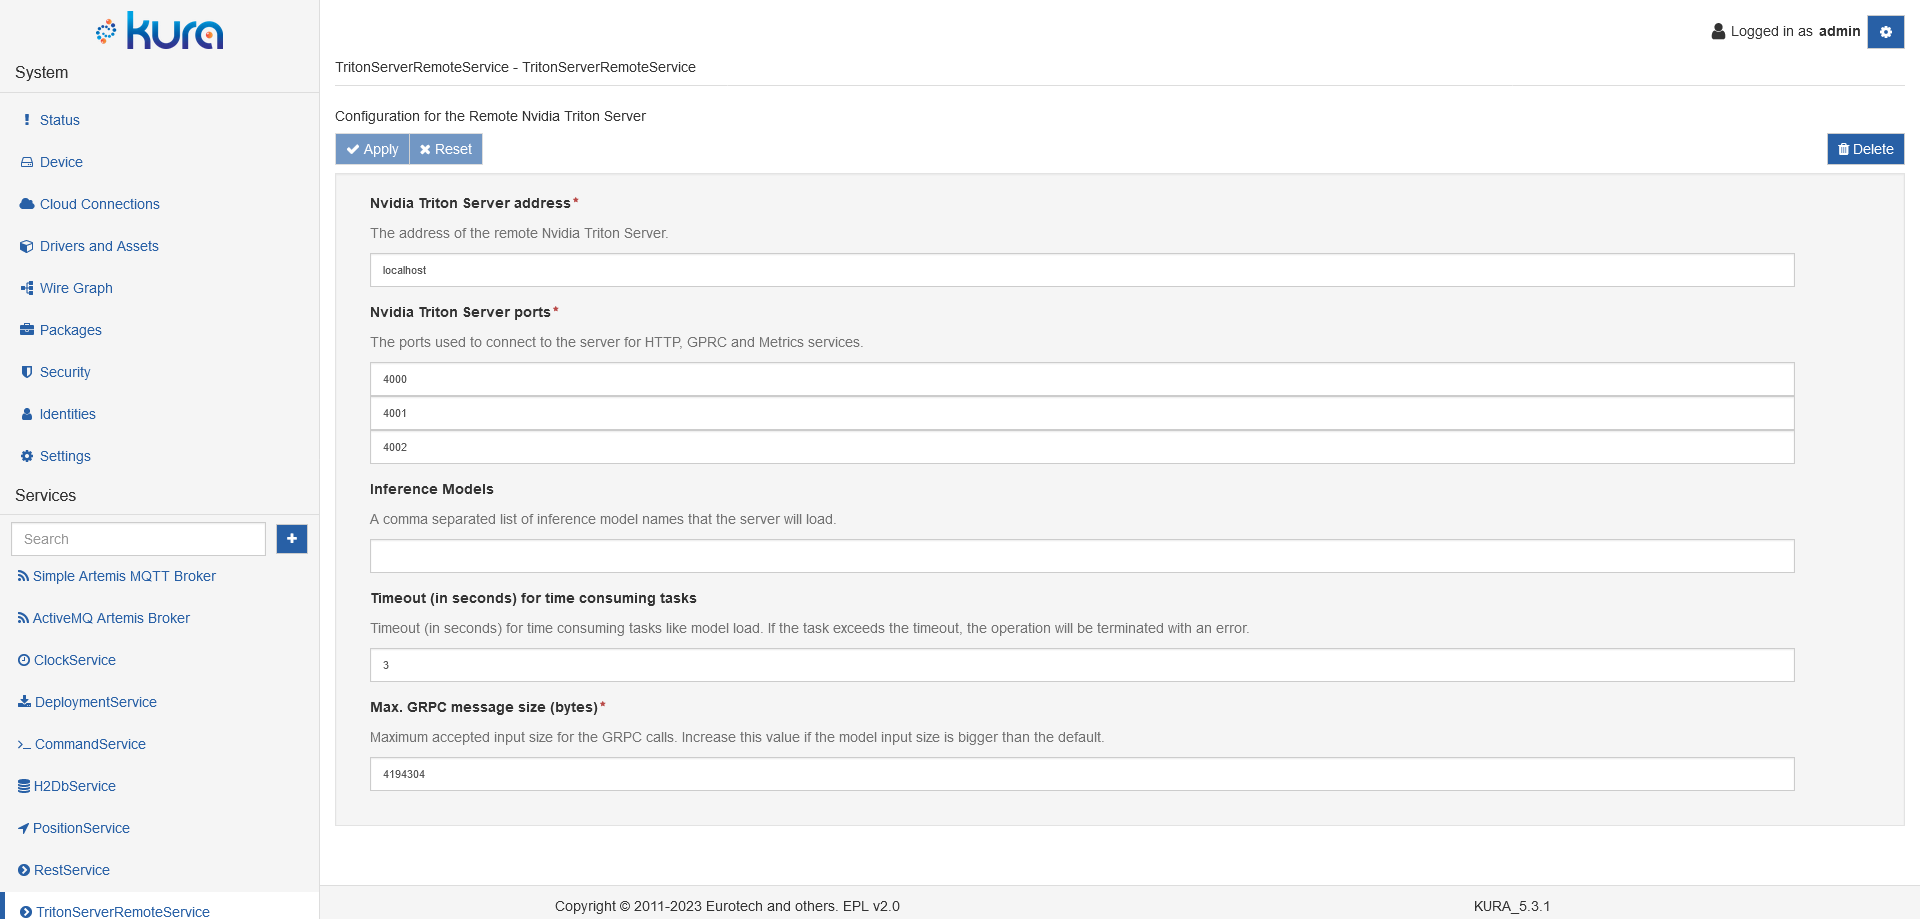
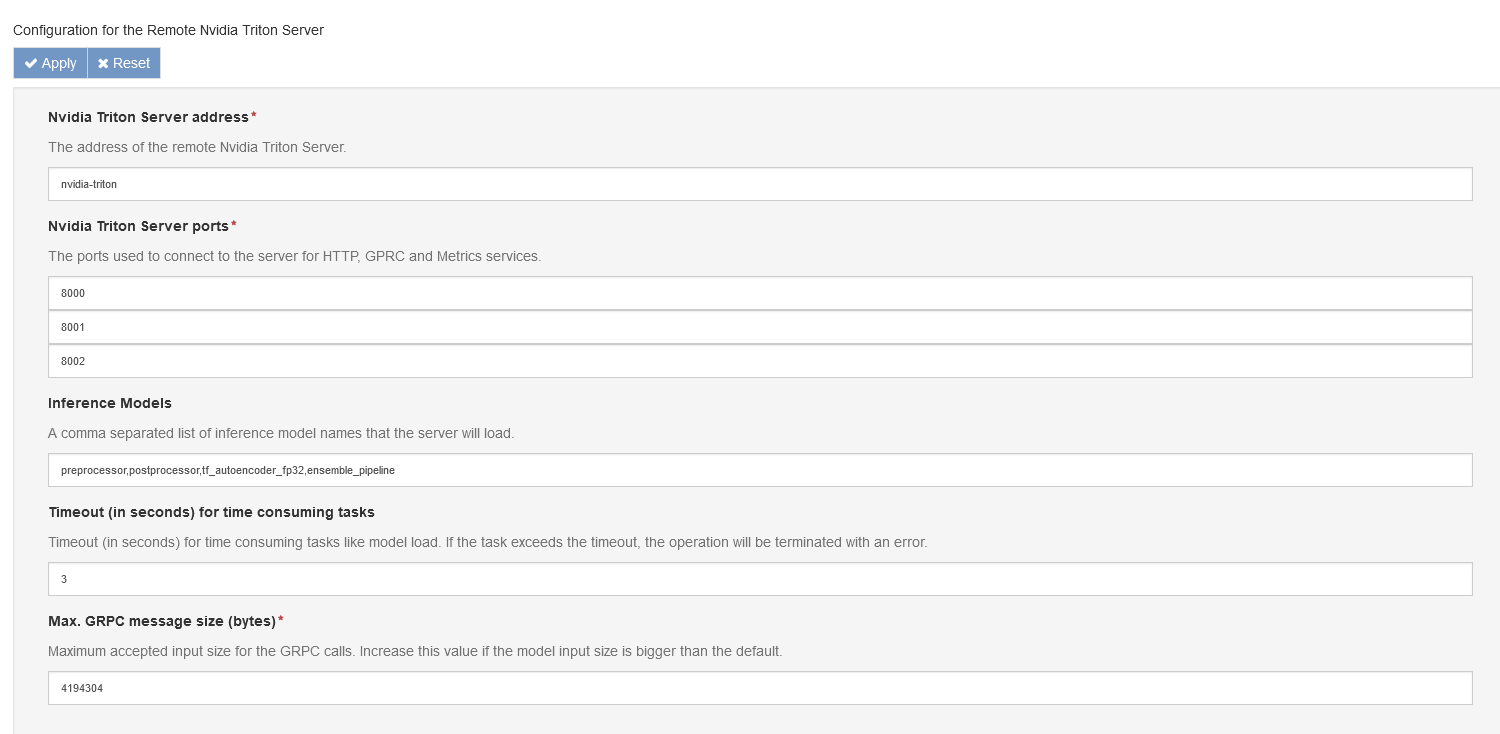
Updated TritonRemoteServer configuration.

diff --git a/tutorial/tutorial.md b/tutorial/tutorial.md
@@ -193,7 +193,8 @@ In this example we'll call it `TritonRemoteServerService`.
 
 Then we'll need to configure it to run our models. Move to the `TritonServerService` configuration interface and set the following parameters:
 
-- **Nvidia Triton Server address**: use localhost
+- **Nvidia Triton Server address**: use nvidia-triton
+- **Nvidia Triton Server ports**: set the ports 8000,8001,8002
 - **Inference Models**: we'll need to load all the models of the pipeline so: `preprocessor,postprocessor,tf_autoencoder_fp32,ensemble_pipeline`
 
 You can leave everything else as default.
